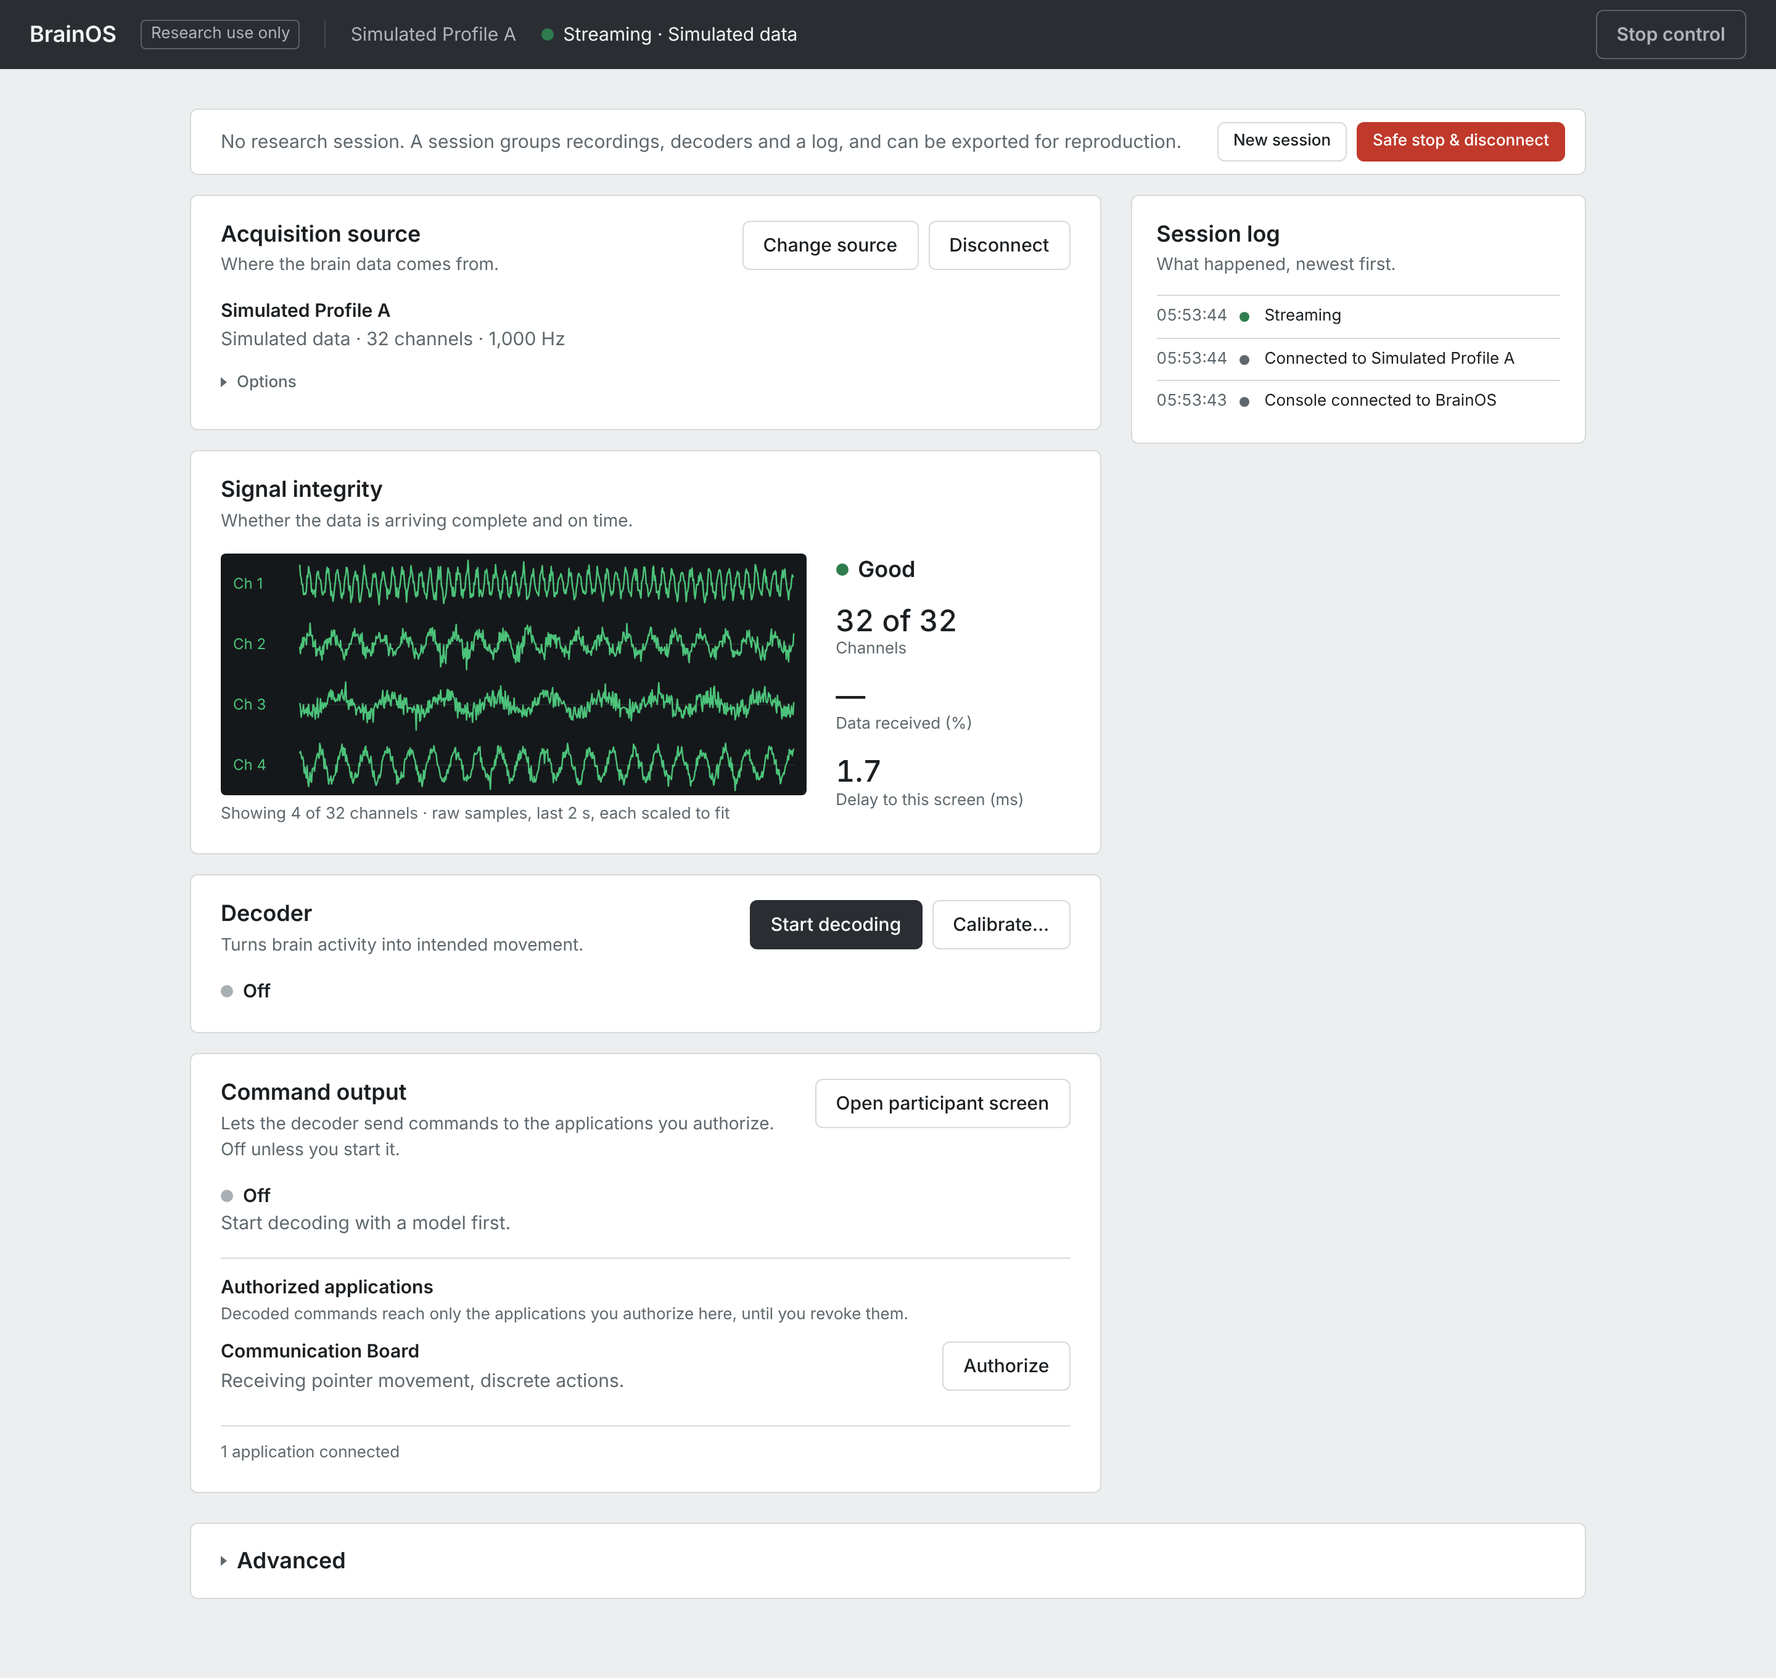
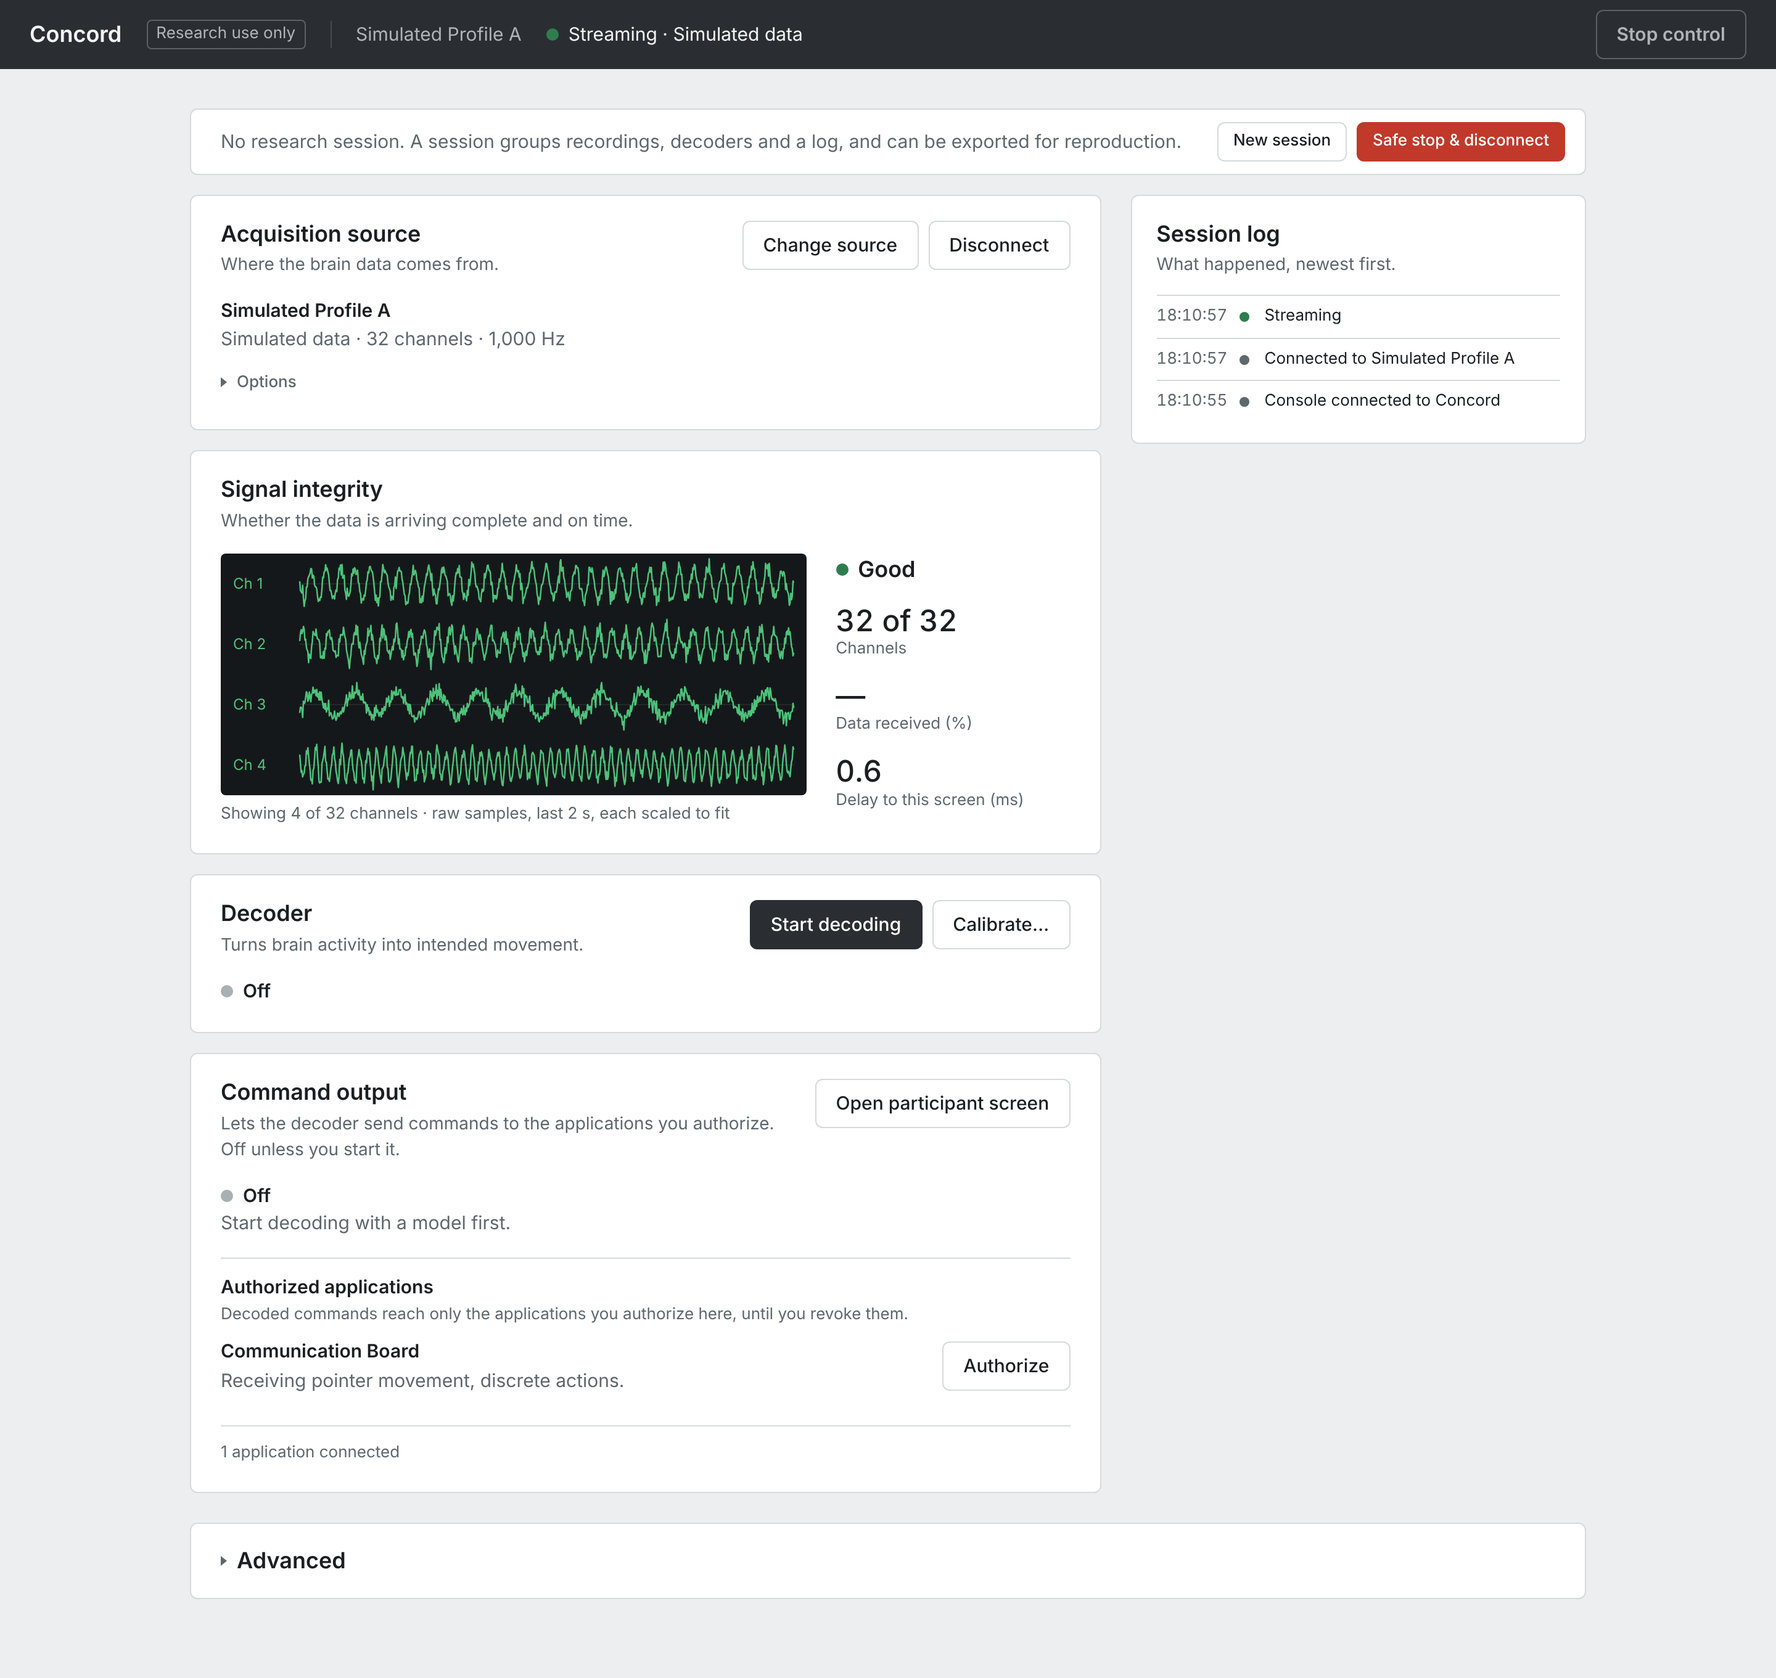
Finish the rename: repository links, screenshots and social preview show Concord
- Every link to the repository now uses github.com/arnavhiteshpatel-cloud/concord (README
  download buttons and badges, getting started, install guide, FAQ, contributing, issue
  forms, citation, release notes).
- The documentation screenshots and the social-preview image were retaken from the renamed
  console (they showed the old name in the title bar).
- docs/SDK.md: fix a link to ARCHITECTURE.md §4 whose anchor changed with schema 1.4.

diff --git a/README.md b/README.md
@@ -5,13 +5,13 @@ Concord receives neural data from acquisition systems and recordings, shows wher
 data came from, runs decoders, and passes decoded commands only to applications an operator
 has authorized.
 
-[![Download for macOS](https://img.shields.io/badge/Download-macOS%20(Apple%20Silicon)-1f2328?style=for-the-badge&logo=apple&logoColor=white)](https://github.com/arnavhiteshpatel-cloud/brainos/releases/latest/download/Concord-macos-arm64.dmg)
-[![Download for Linux](https://img.shields.io/badge/Download-Linux%20x86__64-1f2328?style=for-the-badge&logo=linux&logoColor=white)](https://github.com/arnavhiteshpatel-cloud/brainos/releases/latest/download/Concord-linux-x86_64.tar.gz)
-[![All downloads](https://img.shields.io/badge/All%20downloads-Releases-0969da?style=for-the-badge&logo=github)](https://github.com/arnavhiteshpatel-cloud/brainos/releases/latest)
+[![Download for macOS](https://img.shields.io/badge/Download-macOS%20(Apple%20Silicon)-1f2328?style=for-the-badge&logo=apple&logoColor=white)](https://github.com/arnavhiteshpatel-cloud/concord/releases/latest/download/Concord-macos-arm64.dmg)
+[![Download for Linux](https://img.shields.io/badge/Download-Linux%20x86__64-1f2328?style=for-the-badge&logo=linux&logoColor=white)](https://github.com/arnavhiteshpatel-cloud/concord/releases/latest/download/Concord-linux-x86_64.tar.gz)
+[![All downloads](https://img.shields.io/badge/All%20downloads-Releases-0969da?style=for-the-badge&logo=github)](https://github.com/arnavhiteshpatel-cloud/concord/releases/latest)
 [![Getting started](https://img.shields.io/badge/Start%20here-Getting%20started-2da44e?style=for-the-badge)](docs/GETTING_STARTED.md)
 
-[![CI](https://github.com/arnavhiteshpatel-cloud/brainos/actions/workflows/ci.yml/badge.svg)](https://github.com/arnavhiteshpatel-cloud/brainos/actions/workflows/ci.yml)
-[![Hardware validation kit](https://github.com/arnavhiteshpatel-cloud/brainos/actions/workflows/hwval.yml/badge.svg)](https://github.com/arnavhiteshpatel-cloud/brainos/actions/workflows/hwval.yml)
+[![CI](https://github.com/arnavhiteshpatel-cloud/concord/actions/workflows/ci.yml/badge.svg)](https://github.com/arnavhiteshpatel-cloud/concord/actions/workflows/ci.yml)
+[![Hardware validation kit](https://github.com/arnavhiteshpatel-cloud/concord/actions/workflows/hwval.yml/badge.svg)](https://github.com/arnavhiteshpatel-cloud/concord/actions/workflows/hwval.yml)
 
 > [!IMPORTANT]
 > **Research software, not a medical device.** Concord never sends anything to a device. It has
@@ -42,9 +42,9 @@ has authorized.
 
 | Your computer | Download | Install |
 | --- | --- | --- |
-| **Mac** with Apple Silicon (M1 or later), macOS 14 or later | [**Concord-macos-arm64.dmg**](https://github.com/arnavhiteshpatel-cloud/brainos/releases/latest/download/Concord-macos-arm64.dmg) | Open the `.dmg`, drag Concord to Applications. The app is not signed by Apple; the first time, Control-click it → **Open** (macOS 14) or **System Settings → Privacy & Security → Open Anyway** (macOS 15+). |
-| **Linux** x86_64 (Ubuntu 22.04 or later, or similar) | [**Concord-linux-x86_64.tar.gz**](https://github.com/arnavhiteshpatel-cloud/brainos/releases/latest/download/Concord-linux-x86_64.tar.gz) | Extract it and run `Concord/Concord`. |
-| Python 3.12 (any platform with Python, for developers) | Wheels on the [Releases page](https://github.com/arnavhiteshpatel-cloud/brainos/releases/latest), or [from source](#developers-install-from-source) | `pip install --find-links <folder with the wheels> "concordos[lab]"` |
+| **Mac** with Apple Silicon (M1 or later), macOS 14 or later | [**Concord-macos-arm64.dmg**](https://github.com/arnavhiteshpatel-cloud/concord/releases/latest/download/Concord-macos-arm64.dmg) | Open the `.dmg`, drag Concord to Applications. The app is not signed by Apple; the first time, Control-click it → **Open** (macOS 14) or **System Settings → Privacy & Security → Open Anyway** (macOS 15+). |
+| **Linux** x86_64 (Ubuntu 22.04 or later, or similar) | [**Concord-linux-x86_64.tar.gz**](https://github.com/arnavhiteshpatel-cloud/concord/releases/latest/download/Concord-linux-x86_64.tar.gz) | Extract it and run `Concord/Concord`. |
+| Python 3.12 (any platform with Python, for developers) | Wheels on the [Releases page](https://github.com/arnavhiteshpatel-cloud/concord/releases/latest), or [from source](#developers-install-from-source) | `pip install --find-links <folder with the wheels> "concordos[lab]"` |
 | Windows | — | Not supported yet. |
 
 When Concord starts, a small window shows **"Concord is running at http://127.0.0.1:8000"**
@@ -150,7 +150,7 @@ You need [uv](https://docs.astral.sh/uv/) (it installs Python 3.12) and Node 20 
 Mac, `brew install uv node`.
 
 ```bash
-git clone https://github.com/arnavhiteshpatel-cloud/brainos.git
+git clone https://github.com/arnavhiteshpatel-cloud/concord.git
 ```
 ```bash
 cd concord
@@ -205,7 +205,7 @@ details**) and listed in [DATASETS.md](docs/DATASETS.md).
 
 Concord is in active development; see the [changelog](CHANGELOG.md) and the
 [roadmap](ROADMAP.md). Questions, bug reports and hardware-validation results are welcome as
-[issues](https://github.com/arnavhiteshpatel-cloud/brainos/issues/new/choose); read
+[issues](https://github.com/arnavhiteshpatel-cloud/concord/issues/new/choose); read
 [CONTRIBUTING.md](CONTRIBUTING.md) before opening a pull request. The design documents are
 [PRODUCT.md](PRODUCT.md), [ARCHITECTURE.md](ARCHITECTURE.md) and [MVP_SPEC.md](MVP_SPEC.md).
 

diff --git a/docs/releases/v0.3.0.md b/docs/releases/v0.3.0.md
@@ -1,7 +1,7 @@
 **Concord is research software.** It receives data from acquisition systems and recordings;
 it never sends anything to a device. It has been tested in software and with
 protocol-level test sources only, **never with acquisition hardware or a participant**, and it
-is **not a medical device**. Read [what has and has not been validated](https://github.com/arnavhiteshpatel-cloud/brainos/blob/main/docs/VALIDATION_LEVELS.md).
+is **not a medical device**. Read [what has and has not been validated](https://github.com/arnavhiteshpatel-cloud/concord/blob/main/docs/VALIDATION_LEVELS.md).
 
 ## Download
 
@@ -16,7 +16,7 @@ Windows is not supported yet. Each bundle was built and smoke-tested on its plat
 release workflow before it was published (start, stream a simulated source, record, recover
 from a crash, open and quit the window; on macOS also the app run from the mounted `.dmg`).
 
-**Next:** [Getting started](https://github.com/arnavhiteshpatel-cloud/brainos/blob/main/docs/GETTING_STARTED.md)
+**Next:** [Getting started](https://github.com/arnavhiteshpatel-cloud/concord/blob/main/docs/GETTING_STARTED.md)
 walks you from the first launch to replaying real human recordings, without a terminal.
 
 ## What is in this release
@@ -29,9 +29,9 @@ walks you from the first launch to replaying real human recordings, without a te
   ZMQ Interface; plugins (BCI2000 included in the app; BrainFlow with the Python install).
 - **The communication board**, a participant screen with five input methods.
 - **`concord-hwval`**, a toolkit to verify that Concord receives exactly what your
-  acquisition software records ([protocol](https://github.com/arnavhiteshpatel-cloud/brainos/blob/main/docs/HARDWARE_VALIDATION.md)).
+  acquisition software records ([protocol](https://github.com/arnavhiteshpatel-cloud/concord/blob/main/docs/HARDWARE_VALIDATION.md)).
 
-New in this release: see the [changelog](https://github.com/arnavhiteshpatel-cloud/brainos/blob/main/CHANGELOG.md).
+New in this release: see the [changelog](https://github.com/arnavhiteshpatel-cloud/concord/blob/main/CHANGELOG.md).
 
 ## Known limitations
 
@@ -42,4 +42,4 @@ New in this release: see the [changelog](https://github.com/arnavhiteshpatel-clo
 - Concord has no user accounts or encryption: it listens only on this computer
   (127.0.0.1); keep it that way.
 
-All limitations: [LIMITATIONS.md](https://github.com/arnavhiteshpatel-cloud/brainos/blob/main/LIMITATIONS.md).
+All limitations: [LIMITATIONS.md](https://github.com/arnavhiteshpatel-cloud/concord/blob/main/LIMITATIONS.md).

diff --git a/CONTRIBUTING.md b/CONTRIBUTING.md
@@ -8,9 +8,9 @@ been validated, and they keep it safe. Please read them before opening a pull re
 
 | You want to… | Do this |
 | --- | --- |
-| Report a problem | [Open a bug report](https://github.com/arnavhiteshpatel-cloud/brainos/issues/new?template=bug_report.yml). Attach the support report from **Advanced → Support report** (or `concord doctor`): it contains no neural or personal data. |
-| Ask how to do something | [Ask a question](https://github.com/arnavhiteshpatel-cloud/brainos/issues/new?template=question.yml), after checking the [FAQ](docs/FAQ.md) and [troubleshooting](docs/TROUBLESHOOTING.md). |
-| Share a hardware-validation result | [Submit a `concord-hwval` report](https://github.com/arnavhiteshpatel-cloud/brainos/issues/new?template=hardware_validation.yml) ([protocol](docs/HARDWARE_VALIDATION.md)). |
+| Report a problem | [Open a bug report](https://github.com/arnavhiteshpatel-cloud/concord/issues/new?template=bug_report.yml). Attach the support report from **Advanced → Support report** (or `concord doctor`): it contains no neural or personal data. |
+| Ask how to do something | [Ask a question](https://github.com/arnavhiteshpatel-cloud/concord/issues/new?template=question.yml), after checking the [FAQ](docs/FAQ.md) and [troubleshooting](docs/TROUBLESHOOTING.md). |
+| Share a hardware-validation result | [Submit a `concord-hwval` report](https://github.com/arnavhiteshpatel-cloud/concord/issues/new?template=hardware_validation.yml) ([protocol](docs/HARDWARE_VALIDATION.md)). |
 | Connect a new acquisition system | Write a source plugin with the [adapter SDK](docs/ADAPTER_SDK.md) and check it with [`concord-certify`](docs/CERTIFICATION.md). Plugins live in their own package; the core does not need to change. |
 | Bring your own decoder | Use the [decoder SDK](docs/DECODER_SDK.md). |
 | Write an application | Use the [Python or TypeScript SDK](docs/SDK.md). |
@@ -24,7 +24,7 @@ issue or a pull request.
 You need [uv](https://docs.astral.sh/uv/) (it installs Python 3.12) and Node 20 or newer.
 
 ```bash
-git clone https://github.com/arnavhiteshpatel-cloud/brainos.git
+git clone https://github.com/arnavhiteshpatel-cloud/concord.git
 ```
 ```bash
 cd concord

diff --git a/docs/GETTING_STARTED.md b/docs/GETTING_STARTED.md
@@ -24,8 +24,8 @@ about 20 minutes, **without using a terminal**. Every step shows what you should
 
 ### On a Mac (Apple Silicon, macOS 14 Sonoma or later)
 
-1. Download **[Concord-macos-arm64.dmg](https://github.com/arnavhiteshpatel-cloud/brainos/releases/latest/download/Concord-macos-arm64.dmg)**
-   (from the [Releases page](https://github.com/arnavhiteshpatel-cloud/brainos/releases/latest)).
+1. Download **[Concord-macos-arm64.dmg](https://github.com/arnavhiteshpatel-cloud/concord/releases/latest/download/Concord-macos-arm64.dmg)**
+   (from the [Releases page](https://github.com/arnavhiteshpatel-cloud/concord/releases/latest)).
 2. Double-click the downloaded `.dmg` and drag **Concord** onto **Applications**.
 3. Open Concord from Applications. The first time, macOS blocks it because the app is not
    signed with an Apple developer certificate:
@@ -42,7 +42,7 @@ Intel Macs and macOS 13 or older: use the Python installation in
 
 ### On Linux (x86_64, e.g. Ubuntu 22.04 or later)
 
-1. Download **[Concord-linux-x86_64.tar.gz](https://github.com/arnavhiteshpatel-cloud/brainos/releases/latest/download/Concord-linux-x86_64.tar.gz)**.
+1. Download **[Concord-linux-x86_64.tar.gz](https://github.com/arnavhiteshpatel-cloud/concord/releases/latest/download/Concord-linux-x86_64.tar.gz)**.
 2. Extract it (right-click → *Extract Here* in most file managers).
 3. Open the `Concord` folder and run the program named **Concord** (double-click it if your
    file manager runs programs; otherwise run `./Concord/Concord` in a terminal once).
@@ -244,7 +244,7 @@ exported and reproduced.
 the data folder (readable only by your user account), and deletes what you no longer need
 (it asks for confirmation). **Advanced → Support report → Create support report** produces a
 report of versions, ports, permissions and recent problems **without any neural or personal
-data**; attach it when you [report a problem](https://github.com/arnavhiteshpatel-cloud/brainos/issues/new/choose).
+data**; attach it when you [report a problem](https://github.com/arnavhiteshpatel-cloud/concord/issues/new/choose).
 
 ![Stored data and support report](images/12-stored-data-and-support.png)
 

diff --git a/docs/INSTALL_MAC.md b/docs/INSTALL_MAC.md
@@ -17,8 +17,8 @@ Two ways to install; both give the same Concord:
 
 ### Get it
 
-Download **[Concord-macos-arm64.dmg](https://github.com/arnavhiteshpatel-cloud/brainos/releases/latest/download/Concord-macos-arm64.dmg)**
-from the [Releases page](https://github.com/arnavhiteshpatel-cloud/brainos/releases/latest). It
+Download **[Concord-macos-arm64.dmg](https://github.com/arnavhiteshpatel-cloud/concord/releases/latest/download/Concord-macos-arm64.dmg)**
+from the [Releases page](https://github.com/arnavhiteshpatel-cloud/concord/releases/latest). It
 is built and smoke-tested by this repository's release workflow (`.github/workflows/release.yml`);
 `SHA256SUMS.txt` on the release page lists its checksum. You can also build it yourself on a Mac
 from a checkout with `make setup && make app` (output:
@@ -93,7 +93,7 @@ neural recordings; see docs/SECURITY.md on deletion).
 ## B. With Python (`pip`)
 
 Packages are not on PyPI yet. Either download the wheels from the
-[Releases page](https://github.com/arnavhiteshpatel-cloud/brainos/releases/latest) into one folder
+[Releases page](https://github.com/arnavhiteshpatel-cloud/concord/releases/latest) into one folder
 and run `pip install --find-links <that folder> "concordos[lab]"` in a Python 3.12 environment, or
 install from a checkout of this repository. For a checkout, the prerequisites are:
 [Homebrew](https://brew.sh), then
@@ -103,7 +103,7 @@ brew install uv node
 ```
 
 ```bash
-git clone https://github.com/arnavhiteshpatel-cloud/brainos.git
+git clone https://github.com/arnavhiteshpatel-cloud/concord.git
 ```
 
 ```bash

diff --git a/docs/FAQ.md b/docs/FAQ.md
@@ -100,7 +100,7 @@ decoders, tests, benchmarks).
 
 The app is not signed with an Apple developer certificate or notarized by Apple, so macOS cannot
 tell who built it. Download it only from this repository's
-[Releases page](https://github.com/arnavhiteshpatel-cloud/brainos/releases), where it was built
+[Releases page](https://github.com/arnavhiteshpatel-cloud/concord/releases), where it was built
 and smoke-tested by the repository's own release workflow; `SHA256SUMS.txt` on that page lists
 its checksum. Then allow it once:
 **System Settings → Privacy & Security → Open Anyway** (macOS 15+) or Control-click →
@@ -202,7 +202,7 @@ protocol; that has not been done.
 
 Create a support report (**Advanced → Support report → Create support report**; it contains no
 neural or personal data) and attach it to a
-[bug report](https://github.com/arnavhiteshpatel-cloud/brainos/issues/new/choose). Security
+[bug report](https://github.com/arnavhiteshpatel-cloud/concord/issues/new/choose). Security
 problems: see [SECURITY.md](../SECURITY.md) and do not open a public issue.
 
 ### How do I cite Concord?

diff --git a/docs/SDK.md b/docs/SDK.md
@@ -96,7 +96,7 @@ reducer (`model.ts`) plus a view that only consumes SDK events.
 
 ## Event envelope (schema 1.0)
 
-See [ARCHITECTURE.md §4](../ARCHITECTURE.md#4-event-envelope-schema-10) and the JSON Schema
+See [ARCHITECTURE.md §4](../ARCHITECTURE.md#4-event-envelope-schema-14-1114-are-additive-over-10) and the JSON Schema
 at `contracts/event-envelope.v1.schema.json` (also served at `/api/v1/schema/event`).
 
 Note for JavaScript: `timestamp_ns` values exceed `Number.MAX_SAFE_INTEGER`; after
